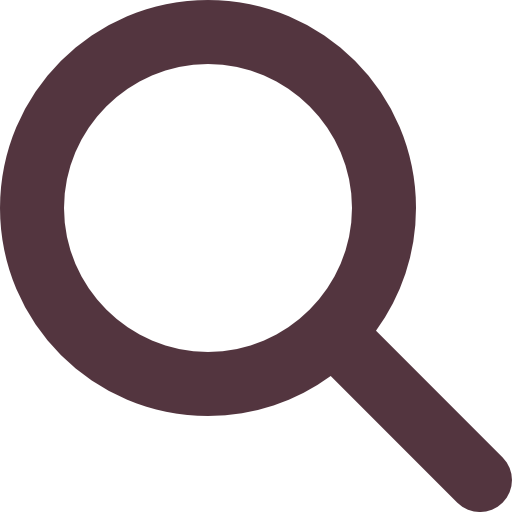
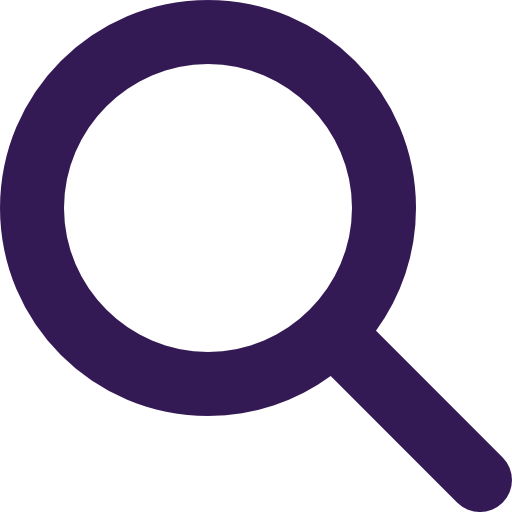
Add styling to header and content

diff --git a/index.html b/index.html
@@ -8,72 +8,110 @@
     <title>Odin Dashboard</title>
 </head>
 <body>
-    
-    <header>
+    <div class="main-container">
+        <header>
 
-        <div class="search-container">
+            <div class="search-container">
 
-            <form action="#">
-                <input class="search-bar" type="text" placeholder="Search ..." name="search">
-                <button class="search-button"><img src="img/search-icon.png" ></button>
-            </form>
+                <form action="#">
+                    <input class="search-bar" type="text" placeholder="Search ..." name="search">
+                    <button class="search-button"><img src="img/search-icon.png" ></button>
+                </form>
 
-        </div>
+            </div>
 
-        <div class="login">Login</div>
+            <div class="login">
 
-        <div class="greeting">
+                <img src="img/notifications.png">
+                <img src="img/profile-pic.png">
+                <p>Natasha Romanoff</p>
 
-            <img src="img/profile-pic.png">
-            <p>Hi there,</p>
-            <h2>Natasha Romanoff (@BlackWidow)</h2>
+            </div>
 
-        </div>
+            <div class="greeting">
 
-        <div class="options">Options</div>
+                <img src="img/profile-pic.png">
+                <p>Hi there,</p>
+                <h2>Natasha Romanoff (@BlackWidow)</h2>
 
-    </header>
-    <aside>
+            </div>
 
-        <div class="grid-menu">
-            <img class="first-column logo" src="img/lux-logo.png">
-            <h1 class="title">Dashboard</h1>
-        </div>
+            <div class="options">
 
-        <div class="grid-menu">
-            <ul>
-                <li class="first-column">1</li>
-                <li class="first-column">2</li>
-                <li class="first-column">3</li>
-                <li class="first-column">4</li>
-                <li class="first-column">5</li>
-                <li class="first-column">6</li>
-            </ul>
-            <ul>
-                <li>Home</li>
-                <li>Profile</li>
-                <li>Messages</li>
-                <li>History</li>
-                <li>Tasks</li>
-                <li>Communities</li>
-            </ul>
-        </div>
+                <ul>
+                    <li><a href="#">New</a></li>
+                    <li><a href="#">Upload</a></li>
+                    <li><a href="#">Share</a></li>
+                </ul>
 
-        <div class="grid-menu">
-            <ul>
-                <li class="first-column">1</li>
-                <li class="first-column">2</li>
-                <li class="first-column">3</li>
-            </ul>
-            <ul>
-                <li>Settings</li>
-                <li>Support</li>
-                <li>Privacy</li>
-            </ul>
-        </div>
+            </div>
 
-    </aside>
-    <main>Content</main>
+        </header>
+        <aside>
+
+            <div class="grid-menu">
+                <img class="first-column logo" src="img/lux-logo.png">
+                <h1 class="title">Dashboard</h1>
+            </div>
+
+            <div class="grid-menu">
+                <ul>
+                    <li class="first-column"><img src="img/home.png"></li>
+                    <li class="first-column"><img src="img/profile.png"></li>
+                    <li class="first-column"><img src="img/messages.png"></li>
+                    <li class="first-column"><img src="img/history.png"></li>
+                    <li class="first-column"><img src="img/tasks.png"></li>
+                    <li class="first-column"><img src="img/communities.png"></li>
+                </ul>
+                <ul>
+                    <li><a class="menu-link" href="#">Home</a></li>
+                    <li><a class="menu-link" href="#">Profile</a></li>
+                    <li><a class="menu-link" href="#">Messages</a></li>
+                    <li><a class="menu-link" href="#">History</a></li>
+                    <li><a class="menu-link" href="#">Tasks</a></li>
+                    <li><a class="menu-link" href="#">Communities</a></li>
+                </ul>
+            </div>
+
+            <div class="grid-menu">
+                <ul>
+                    <li class="first-column"><img src="img/settings.png"></li>
+                    <li class="first-column"><img src="img/support.png"></li>
+                    <li class="first-column"><img src="img/privacy.png"></li>
+                </ul>
+                <ul>
+                    <li><a class="menu-link" href="#">Settings</a></li>
+                    <li><a class="menu-link" href="#">Support</a></li>
+                    <li><a class="menu-link" href="#">Privacy</a></li>
+                </ul>
+            </div>
+
+        </aside>
+        <main>
+
+            <section class="projects-container">
+
+                <h2 class="content-title">Your Projects</h2>
+                <div class="card">Super Cool Project</div>
+                <div class="card">Less Cool Project</div>
+                <div class="card">Impossible App</div>
+                <div class="card">Easy Peasy App</div>
+                <div class="card">Ad Blocker</div>
+                <div class="card">Money Maker</div>
+
+            </section>
+
+            <section class="news-container">
+
+                <h2 class="content-title">Announcements</h2>
+                <div class="news-card">some announcements here</div>
+                <h2 class="content-title">Trending</h2>
+                <div class="news-card">some trendy people here</div>
+
+            </section>
+
+        </main>
+    </div>
 
 </body>
 </html>

diff --git a/style.css b/style.css
@@ -6,23 +6,32 @@
 
 :root {
     --dark-clr: #2F2F31;
-    --light-clr: #ACA3A6;
-    --accent-clr: #53353F;
+    --light-clr: #c5c2c9;
+    --accent-clr: #341a55;
     --light-accent-clr: #76575C;
 }
 
 body {
-    font-family: Roboto, Oxygen, Ubuntu, Cantarell, 'Open Sans', 'Helvetica Neue', sans-serif;
     height: 100vh;
+    padding: 20px;
+}
+
+.main-container {
+    height:100%;
+    font-family: Roboto, Oxygen, Ubuntu, Cantarell, 'Open Sans', 'Helvetica Neue', sans-serif;
     display: grid;
+    gap: 20px;
+    padding: 20px;
     grid-template-columns: 250px 1fr;
     grid-template-rows: 160px 1fr;
+    background-color:var(--light-clr);
+    border-radius: 20px;
 }
 
 /* SIDEBAR STYLING ------------------------- */
 
 aside {
-    background: linear-gradient(var(--dark-clr), var(--accent-clr));
+    background-color: var(--accent-clr);
     color: white;
     grid-column: 1;
     grid-row: 1 / 3;
@@ -31,6 +40,7 @@ aside {
     gap: 50px;
     padding: 20px;
     line-height: 2em;
+    border-radius: 20px;
 }
 
 .logo {
@@ -39,22 +49,44 @@ aside {
 
 .title {
     align-self: center;
+    padding-left: 10px;
 }
 
 .grid-menu {
     display: grid;
     grid-template-columns: 50px 1fr;
     column-gap: 20px;
-
 }
 
 .grid-menu > ul {
     list-style-type: none;
+    display: grid;
+    grid-template-rows: repeat(6, 1fr);
 }
 
 .first-column {
     display: grid;
     justify-content: center;
+    align-items: center;
+}
+
+.first-column > img {
+    height: 1rem;
+}
+
+.menu-link {
+    text-decoration: none;
+    color: white;
+}
+
+.grid-menu > ul > li:not(.first-column) {
+    padding-left: 10px;
+}
+
+.grid-menu > ul > li:not(.first-column):hover {
+    background: linear-gradient(90deg, #341a55, #ff5100);
+    border-top-right-radius: 20px;
+    border-bottom-right-radius: 20px;
 }
 
 /* HEADER STYLING ------------------------- */
@@ -64,13 +96,18 @@ header {
     display: grid;
     grid-template-columns: 3fr 1fr;
     grid-template-rows: 1fr 2fr;
+    border-radius: 20px;
+}
+
+.search-container {
+    display: grid;
+    align-items: center;
 }
 
 .search-container > form {
     display: grid;
     grid-template-columns: 1fr 50px;
     column-gap: 20px;
-    align-items: center;
     padding: 20px;
 }
 
@@ -118,9 +155,91 @@ header {
     align-self: center;
 }
 
+.login {
+    display: flex;
+    padding: 20px;
+    gap: 20px;
+    align-items: center;
+    justify-content: flex-end;
+}
+
+.login > img:nth-of-type(1) {
+    height: 25px;
+}
+
+.login > img:nth-of-type(2) {
+    height: 35px;
+    border-radius: 50%;
+}
+
+.options {
+    display: grid;
+    align-items: center;
+    padding: 20px;
+}
+
+.options > ul {
+    display: grid;
+    grid-template-columns: repeat(3, 1fr);
+    gap: 20px;
+}
+
+.options > ul > li {
+    list-style-type: none;
+    background-color: #341a55;
+    padding: 5px 20px;
+    border-radius: 20px;
+}
+
+.options > ul > li > a {
+    text-decoration: none;
+    color: white;
+}
+
 /* MAIN CONTENT STYLING ------------------- */
 
 main {
     background-color: var(--light-clr);
     grid-column: 2;
+    display: grid;
+    gap: 10px;
+    grid-template-columns: 3fr 1fr;
+}
+
+.projects-container {
+    display: grid;
+    gap: 10px;
+    grid-template-rows: 50px auto;
+    grid-template-columns: repeat(auto-fit, minmax(200px, 1fr));
+}
+
+.projects-container > h2 {
+    grid-column: 1 / -1;
+}
+
+.news-container {
+    display: grid;
+    grid-template-columns: 1fr;
+    grid-template-rows: 50px 1fr 50px 1fr;
+    background-color: #a197ad;
+    border-radius: 10px;
+    padding: 10px;
+}
+
+.news-container > h2:nth-of-type(2) {
+    margin-top: 10px;
+}
+
+.card {
+    background-color: white;
+    border-radius: 10px;
+    padding: 10px;
+    border-left: 5px solid #ff5100;
+
+}
+
+.news-card {
+    background-color: white;
+    border-radius: 10px;
+    padding: 10px;
 }
